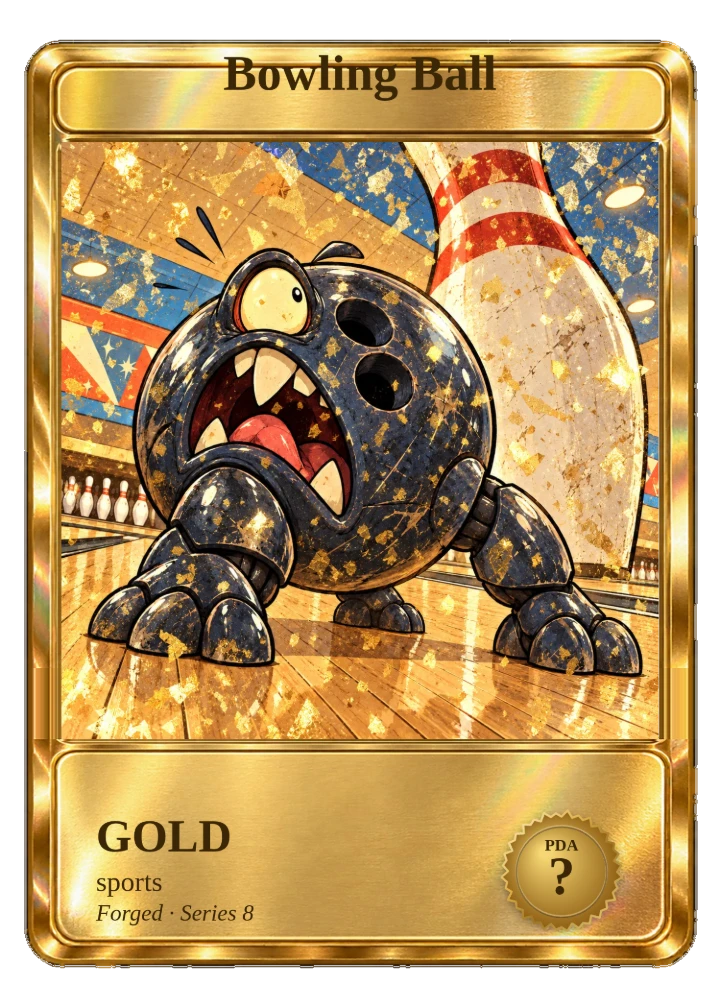
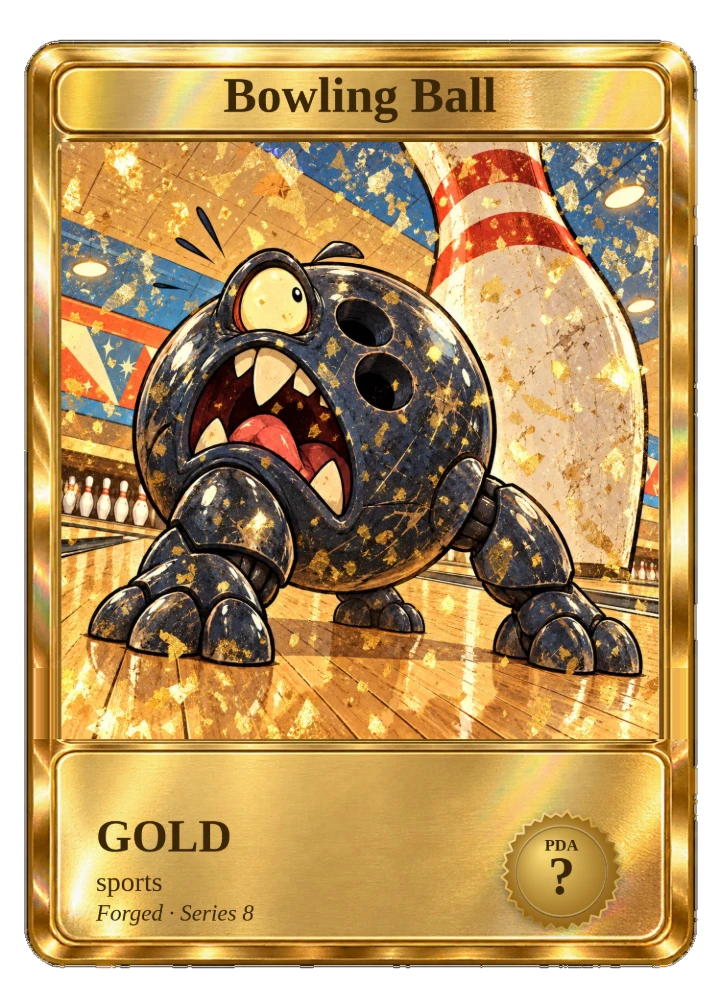
Gold: the name sits on Gold's own name bar (it's drawn lower than the shared geometry)
Claude-Session: https://claude.ai/code/session_01LEzX9WUx8sWcSwwRyLeaEz

Changed region(s): [[0.3056, 0.0308, 0.7028, 0.123]]

diff --git a/studio/src/layoutDefaults.ts b/studio/src/layoutDefaults.ts
@@ -15,7 +15,7 @@ export const BUILTIN_FONTS: { label: string; css: string }[] = [
 
 /** Layouts saved before the built-in frames existed were made for placeholder frames; they are replaced by the
  *  defaults below. Bump when the default layout changes in a way old saved layouts must not keep. */
-export const LAYOUT_VERSION = 4
+export const LAYOUT_VERSION = 5
 
 /** Text colours per frame: Paper, Wood and Diamond have light panels (dark ink); Burning and Coal have dark panels
  *  (light ink). `window` fills the art window behind keyed art. */
@@ -47,6 +47,12 @@ function tb(box: Rect, over: Partial<TextStyle>): TextBox {
   return { box, style: style(over), visible: true }
 }
 
+/** Frame sets whose name bar isn't where the shared FRAME_GEOMETRY puts it. Gold is drawn smaller inside its canvas
+ *  (y 88-2008 of 2100), so its name bar sits lower: y 144-268. */
+const NAME_BAR: Record<string, Rect> = {
+  gold: { x: 150, y: 150, w: 1200, h: 112 },
+}
+
 /** The default layout of a frame set (layouts are per frame set; every card type using the set shares it). */
 export function defaultLayout(material: string): Layout {
   const ink = INK[material] ?? NEUTRAL_INK
@@ -65,7 +71,7 @@ export function defaultLayout(material: string): Layout {
     layering: 'art-behind',
     art: { box: artBoxOf(material), fit: 'cover', scale: 1, offsetX: 0, offsetY: 0, background: ink.window },
     text: {
-      name: tb({ ...g.nameBar }, { ...c, size: 104, align: 'center' }),
+      name: tb({ ...(NAME_BAR[material] ?? g.nameBar) }, { ...c, size: 104, align: 'center' }),
       material: tb({ x: info.x, y: info.y + 4, w: textW, h: 110 }, { ...c, size: 96, uppercase: true }),
       category: tb({ x: info.x, y: info.y + 118, w: textW, h: 66 }, { ...c, size: 58, bold: false }),
       forged: tb({ x: info.x, y: info.y + 186, w: textW, h: 58 }, { ...c, size: 48, bold: false, italic: true }),
@@ -92,6 +98,10 @@ export function normalizeLayout(material: string, stored: Partial<Layout> | unde
     const font = t.name?.style.font
     t.forged = { ...d.text.forged, style: { ...d.text.forged.style, ...(font ? { font, color: t.category?.style.color ?? d.text.forged.style.color } : {}) } }
     stored = { ...stored, text: t }
+  }
+  // v4 -> v5: Gold's name box moved onto Gold's own name bar
+  if ((stored.version ?? 0) < 5 && NAME_BAR[material] && stored.text?.name) {
+    stored = { ...stored, text: { ...stored.text, name: { ...stored.text.name, box: { ...d.text.name.box } } } }
   }
   return {
     ...d,
